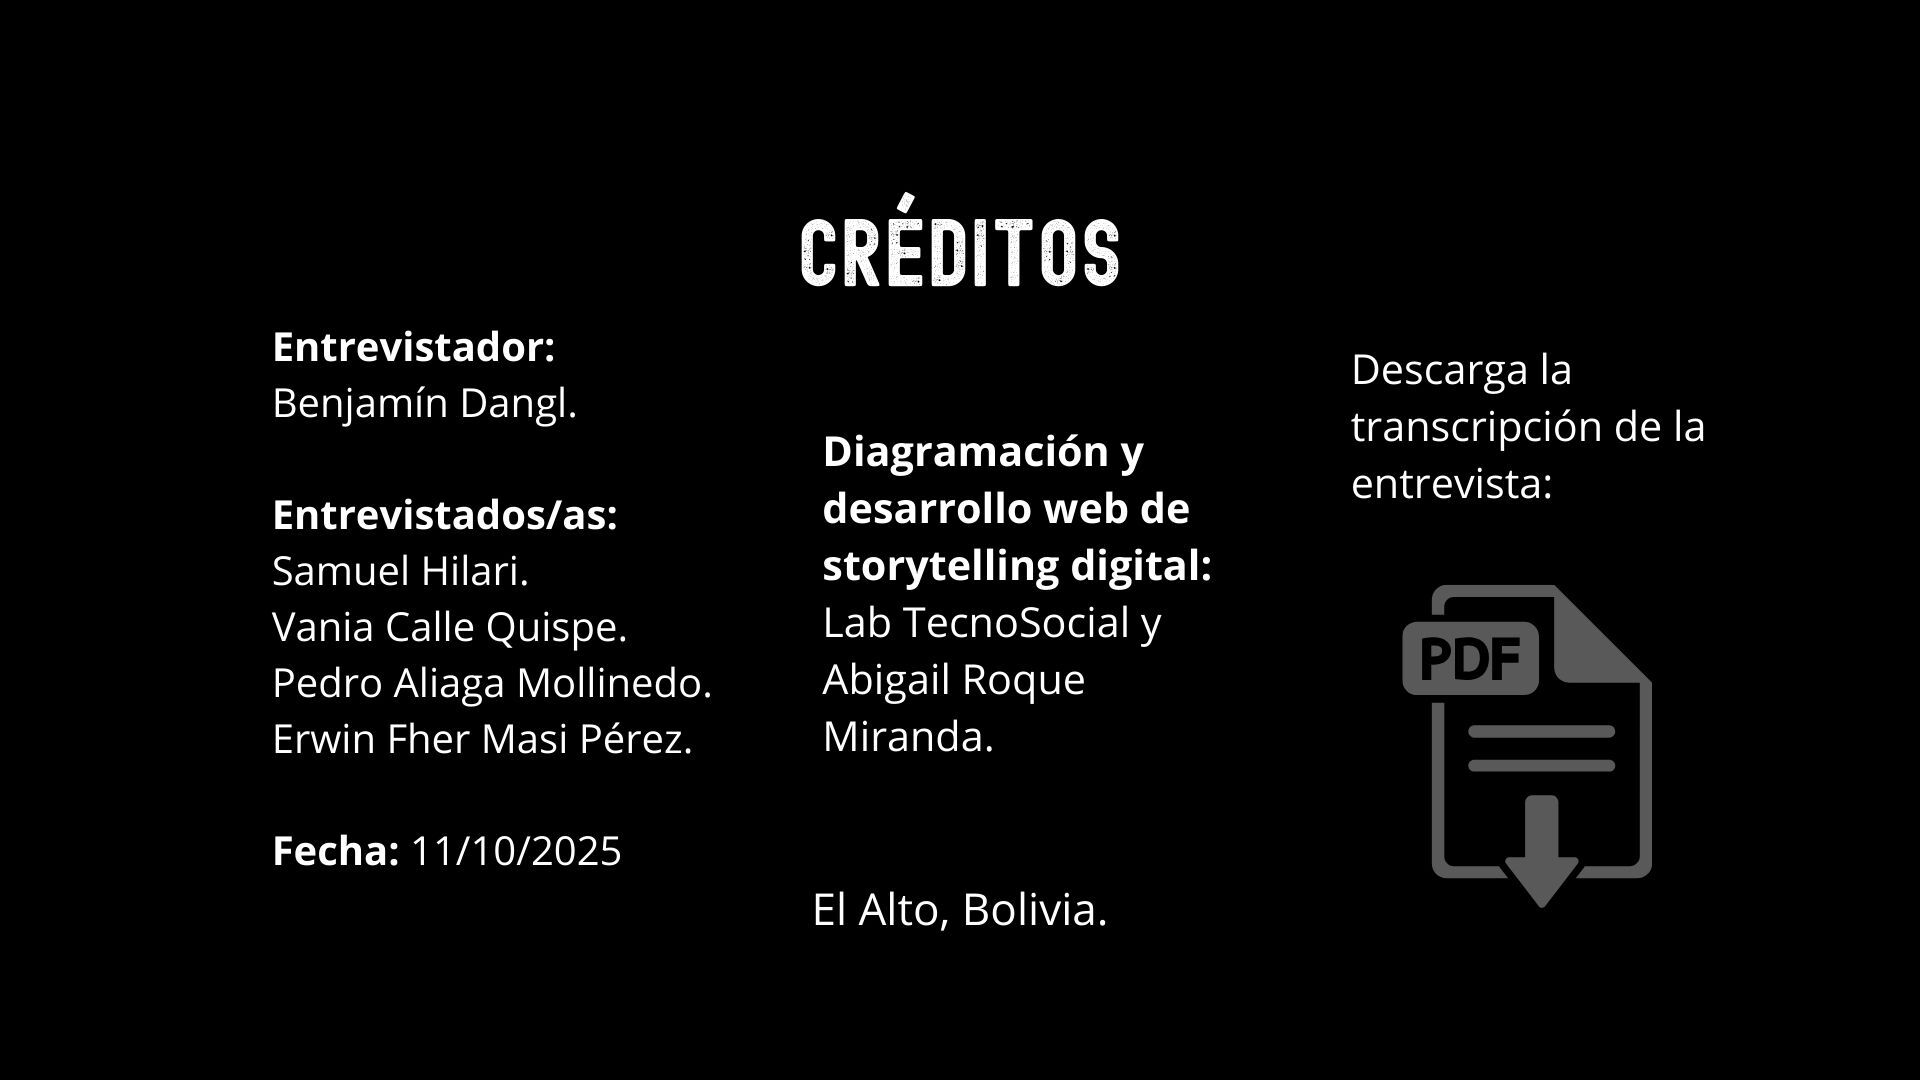
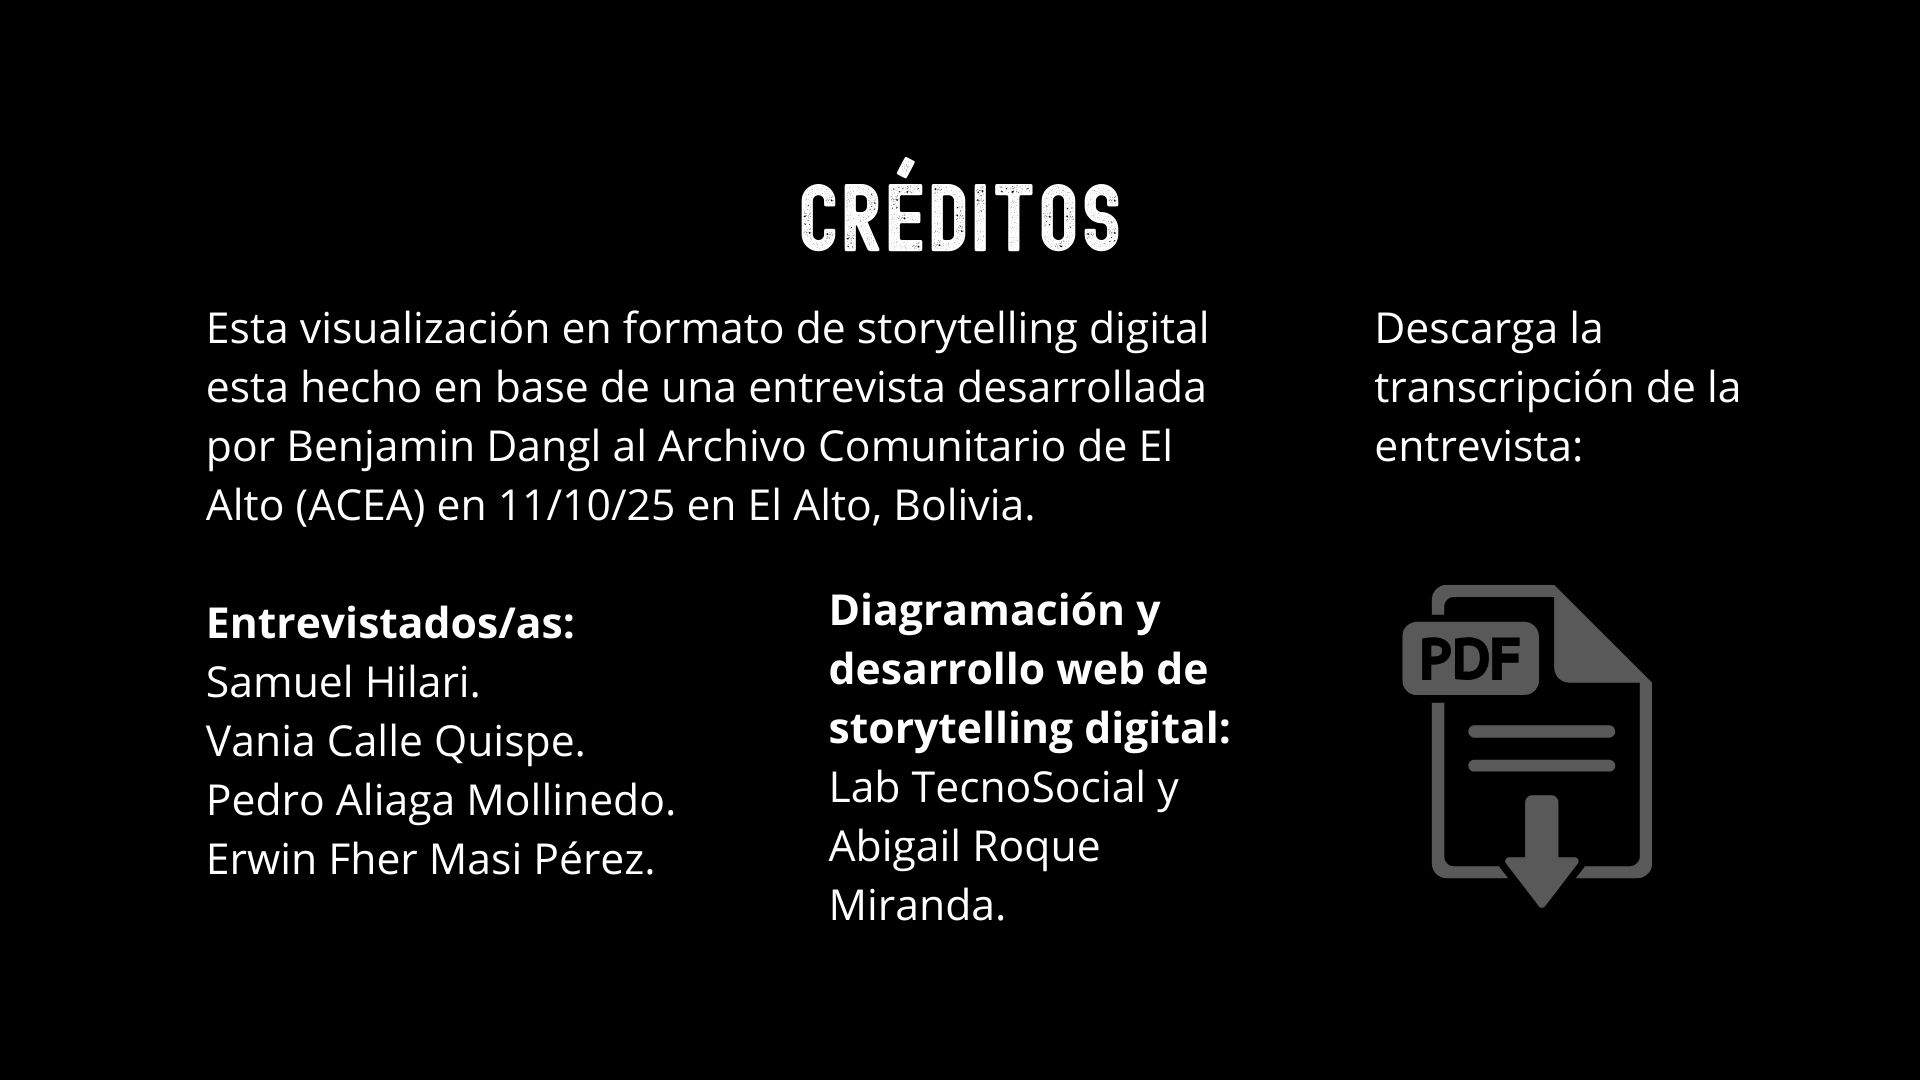
ajuste credito y portada

diff --git a/index.html b/index.html
@@ -976,7 +976,7 @@
         <section class="scrolly">
             <figure class="figure__full">
                 <a
-                    href="https://archivoelalto.org/wp-content/uploads/2026/02/Archivo-Comunitario-de-El-Alto-Bolivia-Entrevista-11.10.25-.docx.pdfgit">
+                    href="https://archivoelalto.org/wp-content/uploads/2026/03/Archivo-Comunitario-de-El-Alto-Bolivia-Entrevista-11.10.25.pdf">
                     <img src="img/45.jpg" class="image__center"> </a>
             </figure>
         </section>
